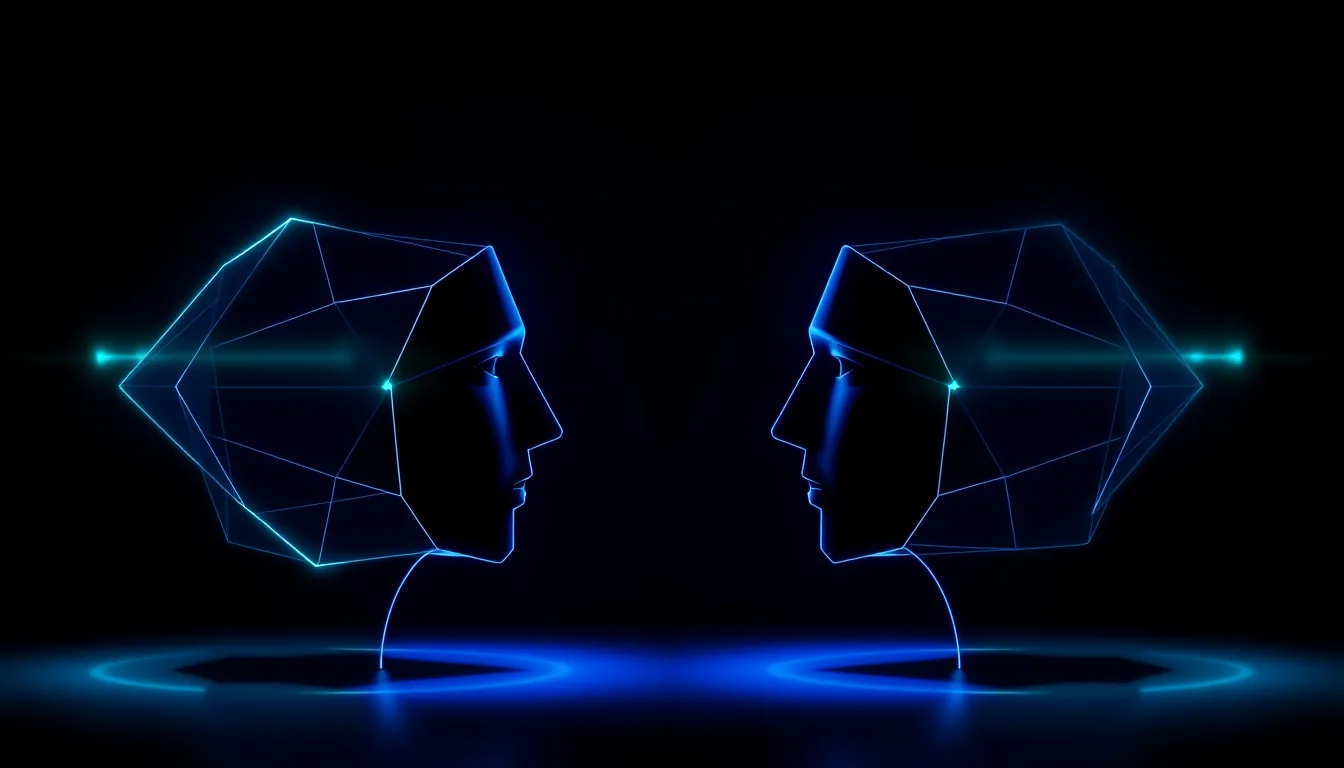
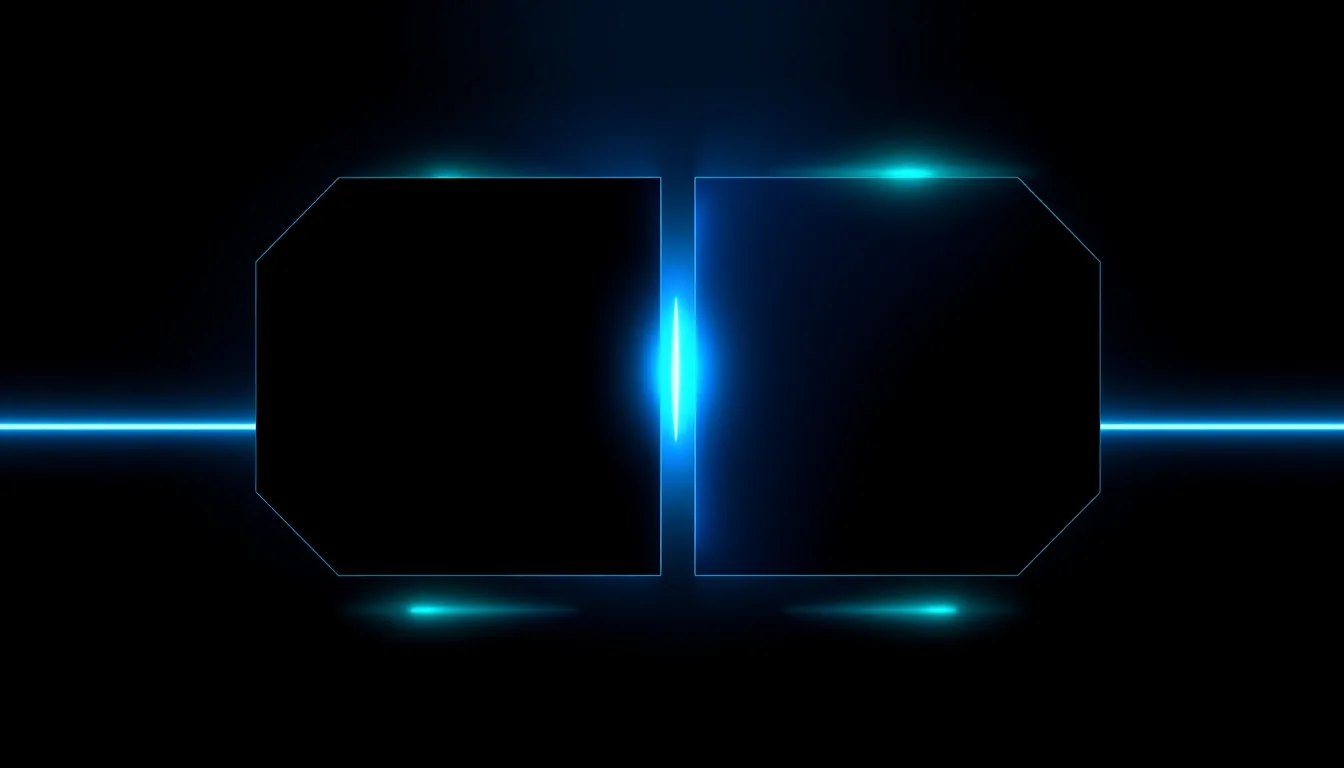
agent-frameworks neu erzeugt: kein Gesicht mehr (Brief W8b Schritt 2)
Das Motiv aus Lauf B1 (seed 220992465218687) zeigte zwei stilisierte Kopfprofile
(angesehen). Brief-Regel keine Gesichter. Neu mit seed+1 = 220992465218688,
Motiv ohne facing-each-other, Positiv-Prompt um "abstract geometric, no figures,
no faces, no people" ergaenzt (Negativ-Prompt wirkt bei cfg 1.0 nicht).
Ergebnis angesehen (Read-Tool): zwei geometrische Koerper mit Lichtnaht, 10594 B,
1344x768. DE + EN-Kopie ersetzt, keine Datei geloescht.

Protokoll: neue Spalte grund; zwei Zeilen angehaengt (letzte Zeile je Ziel gewinnt).
Zahlen unveraendert: 391 Ziele, 267 ok, 122 kopie-von-de, 389 WebP auf Platte.

Bauender: wiki-bauer-w8b

diff --git a/scripts/bilder/index.py b/scripts/bilder/index.py
@@ -79,6 +79,13 @@ def main():
         seen.add(r["kategorie"])
         L.append(f"- `{r['lang']}/{r['kategorie']}/{r['slug']}.webp` — seed {r['seed']}, {int(r['bytes']) // 1024} KB, {r['dauer_s']} s")
     L.append("")
+    nachtrag = [r for r in last.values() if (r.get("grund") or "").strip()]
+    if nachtrag:
+        L.append("## Nachtraeglich neu erzeugt (Spalte `grund` im Protokoll)\n")
+        for r in sorted(nachtrag, key=lambda r: (r["lang"], r["kategorie"], r["slug"])):
+            L.append(f"- `{r['lang']}/{r['kategorie']}/{r['slug']}.webp` — seed {r['seed']}, "
+                     f"{int(r['bytes']) // 1024} KB, Grund: {r['grund']}")
+        L.append("")
     L.append("## Erzeugung\n")
     L.append("ComfyUI `10.40.10.90:8188` (v0.18.1, RTX 3090) · `flux1-schnell-fp8.safetensors` über `CheckpointLoaderSimple` · "
              "`EmptySD3LatentImage` 1344×768 · KSampler 4 Schritte, cfg 1.0, euler/simple · Seed = sha256(slug)[:12] · "

diff --git a/scripts/bilder/INDEX-2026-08-21.md b/scripts/bilder/INDEX-2026-08-21.md
@@ -1,6 +1,6 @@
 # Hero-Motive 2026-08 — Index (Brief B1, E44, TASK-2026-00894)
 
-Stand: 2026-08-21 22:07 · `gesamt/bilder@e8380b8` · Quelle: `scripts/bilder/protokoll-2026-08-21.csv` (407 Zeilen, 391 Ziele) + `ls public/images/hero-2026-08/**/*.webp` (389 Dateien)
+Stand: 2026-08-22 02:06 · `gesamt/bilder@bb0c96c` · Quelle: `scripts/bilder/protokoll-2026-08-21.csv` (409 Zeilen, 391 Ziele) + `ls public/images/hero-2026-08/**/*.webp` (389 Dateien)
 
 | Maß | ist | soll |
 |---|---|---|
@@ -49,7 +49,12 @@ Stand: 2026-08-21 22:07 · `gesamt/bilder@e8380b8` · Quelle: `scripts/bilder/pr
 - `en/skills/creating.webp` — seed 140309078584426, 8 KB, 18.9 s
 - `de/tools/agents.webp` — seed 154415656647614, 25 KB, 16.8 s
 - `de/tutorials/ai-agent-bauen.webp` — seed 127174181908987, 12 KB, 12.8 s
-- `de/vergleiche/agent-frameworks.webp` — seed 220992465218687, 27 KB, 12.5 s
+- `de/vergleiche/agent-frameworks.webp` — seed 220992465218688, 10 KB, 12.7 s
+
+## Nachtraeglich neu erzeugt (Spalte `grund` im Protokoll)
+
+- `de/vergleiche/agent-frameworks.webp` — seed 220992465218688, 10 KB, Grund: neu: gesicht
+- `en/comparisons/agent-frameworks.webp` — seed 220992465218688, 10 KB, Grund: neu: gesicht
 
 ## Erzeugung
 
@@ -59,21 +64,3 @@ Prompt = Stil-Präfix (dunkel, elektrisch-blau, sparsam neon-mint, keine Schrift
 
 Nicht erledigt von diesem Skript: Verdrahtung der Bilder in MDX-Frontmatter/TSX (Wiki-Bauer, W8); OG-Bilder; ComfyUI-Ausgabeordner auf `.90` (`output/hero-2026-08/`) enthält die PNG-Originale — Aufräumen dort ist Brains Hoheit.
 
-## Fünf Stichproben für den Prüfer (Kriterium: passend zum Titel, dunkel, ohne Text)
-
-- `de/compliance/ai-act-august-2026.webp` (TSX-Artikel, Schild/Siegel)
-- `de/konzepte/agent-harness.webp` (Netz/Graph)
-- `de/tutorials/ai-agent-bauen.webp` (Stufen/Bausteine)
-- `de/papers/attention-is-all-you-need.webp` (Seiten/Spektrum)
-- `de/vergleiche/agent-frameworks.webp` (zwei Formen)
-
-Vom Bauer selbst angesehen (Read-Tool, 4 von 389): `de/ai-tools/ai-audio-speech`, `de/ai-tools/ai-chat-assistenten`,
-`de/ai-tools/ai-image-generierung`, `de/ethik/ai-bias`, dazu die kleinste Datei `de/tutorials/multi-agent-aufbauen` (4.194 B):
-alle dunkel, ohne Schrift, ohne Gesichter — das ist die Sicht des Bauers, nicht die Abnahme.
-
-## Protokoll-Hinweis
-
-Das Protokoll hat 407 Zeilen für 391 Ziele: 13 Zeilen `fehlt: WebP ungueltig … < 20 KB` aus Lauf 1 (21:08–21:14) plus
-3 Wiederholungen — die 20-KB-Untergrenze galt fälschlich auch dem WebP; sehr dunkle Motive komprimieren auf 6–18 KB.
-Die 13 Ziele wurden in Lauf 2 erneut erzeugt (letzte Zeile je Ziel zählt). Lauf 1 wurde um 21:14 abgebrochen (SIGTERM,
-ohne `finally`): die Lease `bild-agent` blieb stehen und wurde von Hand per `POST /lease/release` zurückgegeben.
